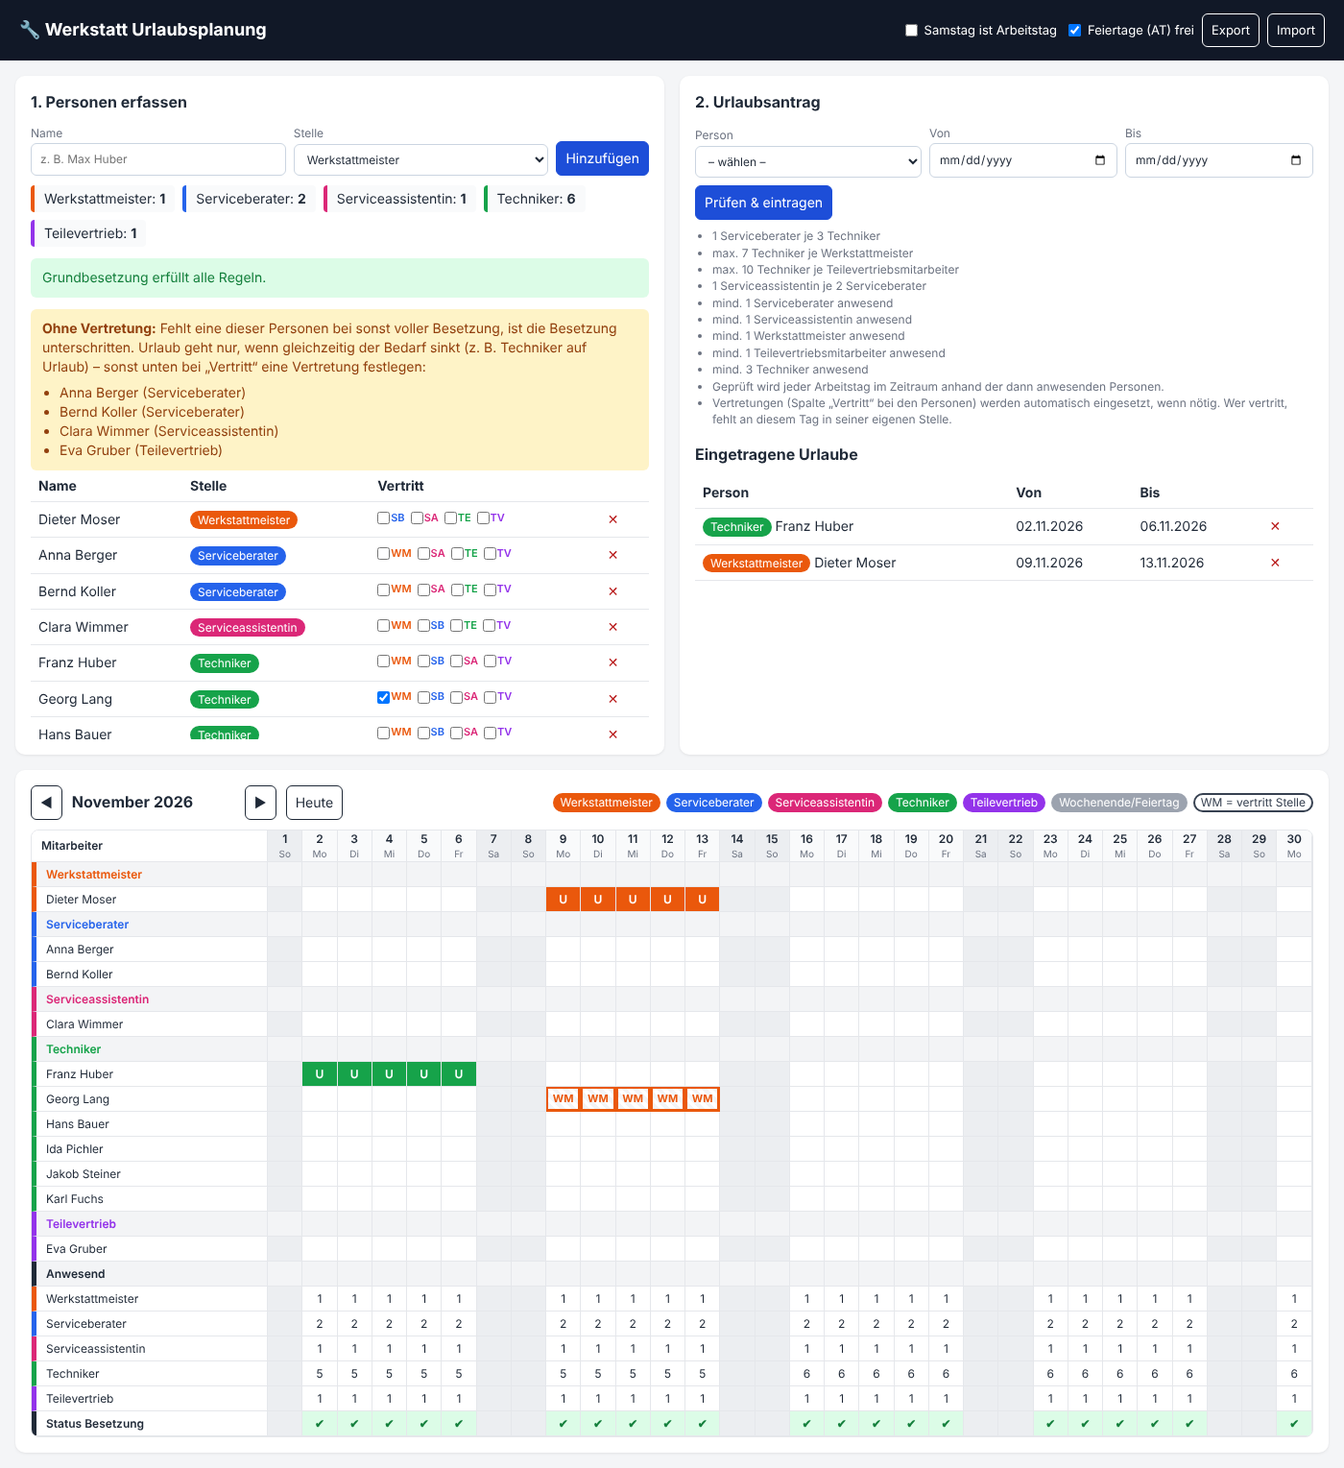
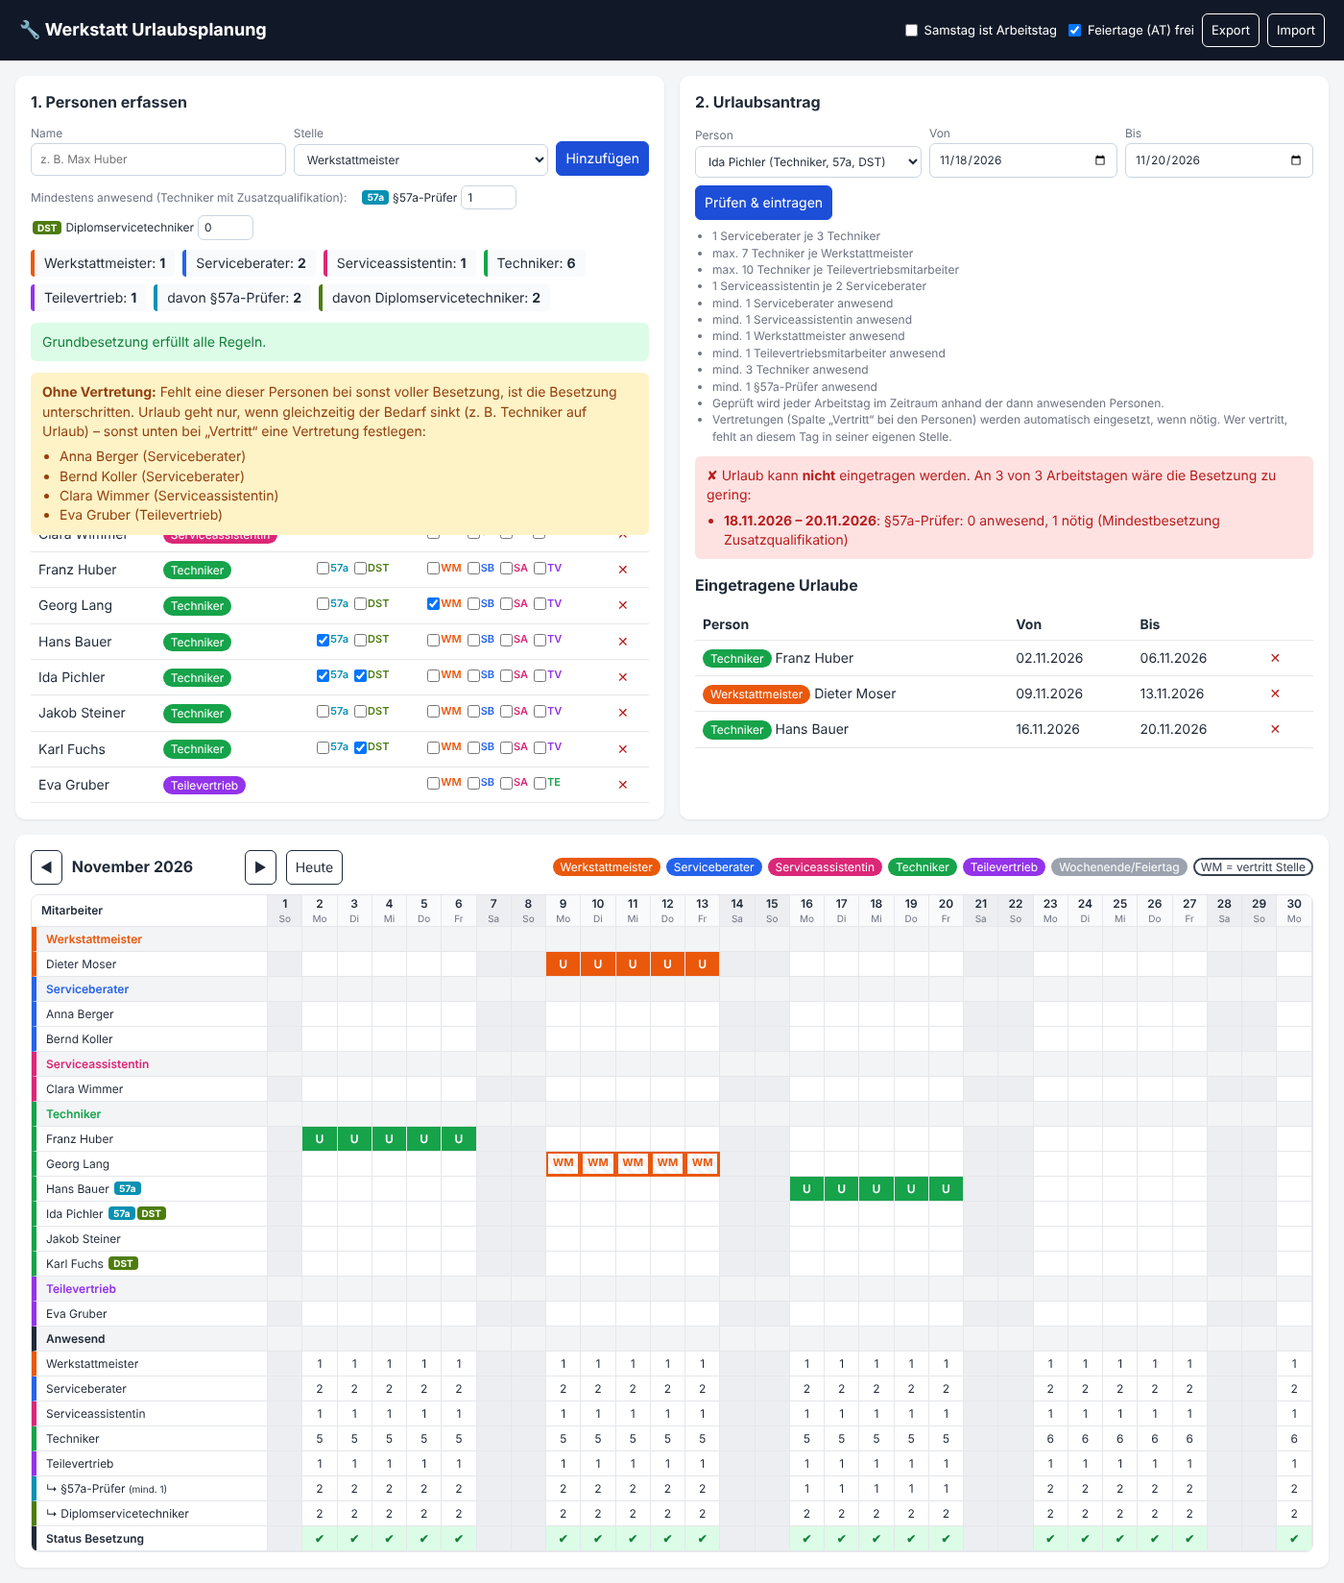
Zusatzqualifikationen für Techniker: §57a-Prüfer und Diplomservicetechniker
Techniker können als §57a-Prüfer und/oder Diplomservicetechniker markiert
werden. Die Mindestanzahl je Qualifikation und Arbeitstag ist einstellbar
(Standard: 1 §57a-Prüfer, 0 Diplomservicetechniker) und wird bei jedem
Urlaubsantrag geprüft. Kalender zeigt Kürzel und Anwesenheit je Qualifikation.

Claude-Session: https://claude.ai/code/session_01HcJAJ2dLJcx57wHRAHDGje

diff --git a/app.js b/app.js
@@ -13,6 +13,10 @@
   const uid = () => Date.now().toString(36) + Math.random().toString(36).slice(2, 7);
   const today = R.fmt(new Date(Date.UTC(new Date().getFullYear(), new Date().getMonth(), new Date().getDate())));
 
+  const normSettings = s => Object.assign({ saturday: false, holidays: true }, s, {
+    qualMin: Object.assign({}, R.DEFAULT_QUAL_MIN, s && s.qualMin),
+  });
+
   let state = load();
   let view = { year: Number(today.slice(0, 4)), month: Number(today.slice(5, 7)) - 1 };
 
@@ -20,16 +24,18 @@
     try {
       const s = JSON.parse(localStorage.getItem(STORAGE_KEY));
       if (s && Array.isArray(s.persons) && Array.isArray(s.vacations)) {
-        s.settings = Object.assign({ saturday: false, holidays: true }, s.settings);
+        s.settings = normSettings(s.settings);
         return s;
       }
     } catch (e) { /* Speicher nicht verfügbar oder leer */ }
-    return { persons: [], vacations: [], settings: { saturday: false, holidays: true } };
+    return { persons: [], vacations: [], settings: normSettings({}) };
   }
   function save() {
     try { localStorage.setItem(STORAGE_KEY, JSON.stringify(state)); } catch (e) { /* ignorieren */ }
   }
 
+  const qualBadge = q => `<span class="qual" style="background:${R.QUALS[q].color}" title="${R.QUALS[q].label}">${R.QUALS[q].short}</span>`;
+  const qualBadges = p => R.QUAL_ORDER.filter(q => R.hasQual(p, q)).map(qualBadge).join('');
   const chip = role => `<span class="chip" style="background:${R.ROLES[role].color}">${R.ROLES[role].label}</span>`;
   const personById = id => state.persons.find(p => p.id === id);
   const sortedPersons = () => state.persons.slice().sort((a, b) =>
@@ -39,21 +45,28 @@
   function renderPersons() {
     const counts = R.presentCounts('0000-00-00', state.persons, []);
     $('stats').innerHTML = R.ROLE_ORDER.map(r =>
-      `<div class="stat" style="border-color:${R.ROLES[r].color}">${R.ROLES[r].label}: <b>${counts[r]}</b></div>`).join('');
+      `<div class="stat" style="border-color:${R.ROLES[r].color}">${R.ROLES[r].label}: <b>${counts[r]}</b></div>`).join('') +
+      R.QUAL_ORDER.map(q =>
+        `<div class="stat" style="border-color:${R.QUALS[q].color}">davon ${R.QUALS[q].label}: <b>${state.persons.filter(p => R.hasQual(p, q)).length}</b></div>`).join('');
 
-    const v = R.staffing('', state.persons, []).violations;
+    $('qualMin').innerHTML = '<span>Mindestens anwesend (Techniker mit Zusatzqualifikation):</span>' + R.QUAL_ORDER.map(q =>
+      `<label>${qualBadge(q)} ${R.QUALS[q].label} <input type="number" min="0" max="20" step="1" data-qualmin="${q}" value="${state.settings.qualMin[q]}"></label>`).join('');
+
+    const v = R.staffing('', state.persons, [], state.settings.qualMin).violations;
     $('baseCheck').innerHTML = !state.persons.length ? '' : v.length
       ? `<div class="msg bad"><b>Grundbesetzung verletzt die Regeln schon ohne Urlaub:</b><ul>${v.map(x => `<li>${esc(x.message)}</li>`).join('')}</ul></div>`
       : '<div class="msg ok">Grundbesetzung erfüllt alle Regeln.</div>';
-    const noCover = state.persons.length && !v.length ? R.personsWithoutCover(sortedPersons()) : [];
+    const noCover = state.persons.length && !v.length ? R.personsWithoutCover(sortedPersons(), state.settings.qualMin) : [];
     if (noCover.length) {
-      $('baseCheck').innerHTML += `<div class="msg warn"><b>Ohne Vertretung:</b> Fehlt eine dieser Personen bei sonst voller Besetzung, ist die Besetzung unterschritten. Urlaub geht nur, wenn gleichzeitig der Bedarf sinkt (z. B. Techniker auf Urlaub) – sonst unten bei „Vertritt“ eine Vertretung festlegen:<ul>${noCover.map(p => `<li>${esc(p.name)} (${R.ROLES[p.role].label})</li>`).join('')}</ul></div>`;
+      $('baseCheck').innerHTML += `<div class="msg warn"><b>Ohne Vertretung:</b> Fehlt eine dieser Personen bei sonst voller Besetzung, ist die Besetzung unterschritten. Urlaub geht nur, wenn gleichzeitig der Bedarf sinkt (z. B. Techniker auf Urlaub) – sonst unten bei „Vertritt“ eine Vertretung festlegen:<ul>${noCover.map(p => `<li>${esc(p.name)} (${R.ROLES[p.role].label}${R.QUAL_ORDER.filter(q => R.hasQual(p, q)).map(q => ', ' + R.QUALS[q].label).join('')})</li>`).join('')}</ul></div>`;
     }
 
     const list = sortedPersons();
     $('tblPersons').innerHTML = list.length
-      ? '<tr><th>Name</th><th>Stelle</th><th title="Stellen, die diese Person bei Bedarf vertreten darf">Vertritt</th><th></th></tr>' + list.map(p =>
+      ? '<tr><th>Name</th><th>Stelle</th><th title="Zusatzqualifikationen (nur Techniker)">Zusatz</th><th title="Stellen, die diese Person bei Bedarf vertreten darf">Vertritt</th><th></th></tr>' + list.map(p =>
         `<tr><td>${esc(p.name)}</td><td>${chip(p.role)}</td>
+         <td class="deps">${p.role !== 'TECH' ? '' : R.QUAL_ORDER.map(q =>
+           `<label title="${R.QUALS[q].label}"><input type="checkbox" data-qual="${p.id}" value="${q}" ${(p.quals || []).includes(q) ? 'checked' : ''}><span style="color:${R.QUALS[q].color}">${R.QUALS[q].short}</span></label>`).join('')}</td>
          <td class="deps">${R.ROLE_ORDER.filter(r => r !== p.role).map(r =>
            `<label title="${esc(p.name)} darf ${R.ROLES[r].label} vertreten"><input type="checkbox" data-deputy="${p.id}" value="${r}" ${(p.deputyFor || []).includes(r) ? 'checked' : ''}><span style="color:${R.ROLES[r].color}">${R.ROLES[r].short}</span></label>`).join('')}</td>
          <td><button class="del" data-del-person="${p.id}" title="Person löschen">✕</button></td></tr>`).join('')
@@ -62,7 +75,7 @@
     const sel = $('vPerson');
     const prev = sel.value;
     sel.innerHTML = '<option value="">– wählen –</option>' + list.map(p =>
-      `<option value="${p.id}">${esc(p.name)} (${R.ROLES[p.role].label})</option>`).join('');
+      `<option value="${p.id}">${esc(p.name)} (${R.ROLES[p.role].label}${R.QUAL_ORDER.filter(q => R.hasQual(p, q)).map(q => ', ' + R.QUALS[q].short).join('')})</option>`).join('');
     if (personById(prev)) sel.value = prev;
   }
 
@@ -70,19 +83,36 @@
     e.preventDefault();
     const name = $('pName').value.trim();
     if (!name) return;
-    state.persons.push({ id: uid(), name, role: $('pRole').value, deputyFor: [] });
+    state.persons.push({ id: uid(), name, role: $('pRole').value, deputyFor: [], quals: [] });
     $('pName').value = '';
     $('pName').focus();
     save(); renderAll();
   });
 
   $('tblPersons').addEventListener('change', e => {
+    const qid = e.target.dataset.qual;
+    if (qid) {
+      const p = personById(qid);
+      const set = new Set(p.quals || []);
+      if (e.target.checked) set.add(e.target.value); else set.delete(e.target.value);
+      p.quals = R.QUAL_ORDER.filter(q => set.has(q));
+      save(); renderAll();
+      return;
+    }
     const id = e.target.dataset.deputy;
     if (!id) return;
     const p = personById(id);
     const set = new Set(p.deputyFor || []);
     if (e.target.checked) set.add(e.target.value); else set.delete(e.target.value);
     p.deputyFor = R.ROLE_ORDER.filter(r => set.has(r));
+    save(); renderAll();
+  });
+
+  $('qualMin').addEventListener('change', e => {
+    const q = e.target.dataset.qualmin;
+    if (!q) return;
+    const n = Math.max(0, Math.floor(Number(e.target.value) || 0));
+    state.settings.qualMin[q] = n;
     save(); renderAll();
   });
 
@@ -170,10 +200,10 @@
     const dayInfo = days.map(d => {
       const work = R.isWorkday(d, state.settings);
       const hol = R.holidayName(d);
-      const st = R.staffing(d, state.persons, state.vacations);
+      const st = R.staffing(d, state.persons, state.vacations, state.settings.qualMin);
       const deputy = {};
       for (const x of st.deputies) deputy[x.person.id] = x.role;
-      return { d, work, hol, counts: st.counts, deputy, viol: work ? st.violations : [] };
+      return { d, work, hol, counts: st.counts, quals: st.quals, deputy, viol: work ? st.violations : [] };
     });
 
     let html = '<thead><tr><th class="name">Mitarbeiter</th>';
@@ -194,7 +224,7 @@
         html += `<tr class="group"><td class="name" style="color:${R.ROLES[p.role].color}">${R.ROLES[p.role].label}</td>${dayInfo.map(i => `<td class="${i.work ? '' : 'off'}"></td>`).join('')}</tr>`;
       }
       const color = R.ROLES[p.role].color;
-      html += `<tr><td class="name" style="border-left-color:${color}">${esc(p.name)}</td>`;
+      html += `<tr><td class="name" style="border-left-color:${color}">${esc(p.name)} ${qualBadges(p)}</td>`;
       for (const i of dayInfo) {
         const absent = R.isAbsent(p.id, i.d, state.vacations);
         if (absent && i.work) html += `<td class="vac" style="background:${color}" title="${esc(p.name)}: Urlaub ${R.deDate(i.d)}">U</td>`;
@@ -216,8 +246,19 @@
         html += `<tr><td class="name" style="border-left-color:${R.ROLES[r].color}">${R.ROLES[r].label}</td>`;
         for (const i of dayInfo) {
           if (!i.work) { html += '<td class="off"></td>'; continue; }
-          const bad = i.viol.some(v => v.role === r);
+          const bad = i.viol.some(v => v.key === r);
           html += `<td class="${bad ? 'badc' : ''}">${i.counts[r]}</td>`;
+        }
+        html += '</tr>';
+      }
+      for (const q of R.QUAL_ORDER) {
+        if (!state.settings.qualMin[q] && !state.persons.some(p => R.hasQual(p, q))) continue;
+        const min = state.settings.qualMin[q];
+        html += `<tr><td class="name" style="border-left-color:${R.QUALS[q].color}">↳ ${R.QUALS[q].label}${min ? ` <small>(mind. ${min})</small>` : ''}</td>`;
+        for (const i of dayInfo) {
+          if (!i.work) { html += '<td class="off"></td>'; continue; }
+          const bad = i.viol.some(v => v.key === 'Q:' + q);
+          html += `<td class="${bad ? 'badc' : ''}">${i.quals[q]}</td>`;
         }
         html += '</tr>';
       }
@@ -268,7 +309,7 @@
       if (!Array.isArray(data.persons) || !Array.isArray(data.vacations)) throw new Error('Ungültiges Format');
       if (!confirm('Aktuelle Daten durch Import ersetzen?')) return;
       state = { persons: data.persons, vacations: data.vacations,
-        settings: Object.assign({ saturday: false, holidays: true }, data.settings) };
+        settings: normSettings(data.settings) };
       $('setSaturday').checked = state.settings.saturday;
       $('setHolidays').checked = state.settings.holidays;
       save(); renderAll();
@@ -281,15 +322,16 @@
 
   // ---------- Start ----------
   $('pRole').innerHTML = R.ROLE_ORDER.map(r => `<option value="${r}">${R.ROLES[r].label}</option>`).join('');
-  $('rulesList').innerHTML = R.RULES.map(r => `<li>${r.text}</li>`).join('') +
-    '<li>Geprüft wird jeder Arbeitstag im Zeitraum anhand der dann anwesenden Personen.</li>' +
-    '<li>Vertretungen (Spalte „Vertritt“ bei den Personen) werden automatisch eingesetzt, wenn nötig. ' +
-    'Wer vertritt, fehlt an diesem Tag in seiner eigenen Stelle.</li>';
   $('legend').innerHTML = R.ROLE_ORDER.map(chip).join('') +
     '<span class="chip" style="background:#9ca3af">Wochenende/Feiertag</span>' +
     '<span class="chip" style="background:#fff;color:#374151;box-shadow:inset 0 0 0 2px #374151">WM = vertritt Stelle</span>';
 
   function renderAll() {
+    $('rulesList').innerHTML = R.RULES.map(r => `<li>${r.text}</li>`).join('') +
+      R.QUAL_ORDER.filter(q => state.settings.qualMin[q] > 0).map(q => `<li>mind. ${state.settings.qualMin[q]} ${R.QUALS[q].label} anwesend</li>`).join('') +
+      '<li>Geprüft wird jeder Arbeitstag im Zeitraum anhand der dann anwesenden Personen.</li>' +
+      '<li>Vertretungen (Spalte „Vertritt“ bei den Personen) werden automatisch eingesetzt, wenn nötig. ' +
+      'Wer vertritt, fehlt an diesem Tag in seiner eigenen Stelle.</li>';
     renderPersons();
     renderVacations();
     renderCalendar();

diff --git a/rules.js b/rules.js
@@ -14,6 +14,14 @@
   };
   const ROLE_ORDER = ['MEISTER', 'SB', 'ASSIST', 'TECH', 'TEILE'];
 
+  // Zusatzqualifikationen der Techniker; Mindestanzahl je Arbeitstag ist einstellbar
+  const QUALS = {
+    P57A: { label: '§57a-Prüfer',            short: '57a', color: '#0891b2' },
+    DST:  { label: 'Diplomservicetechniker', short: 'DST', color: '#4d7c0f' },
+  };
+  const QUAL_ORDER = ['P57A', 'DST'];
+  const DEFAULT_QUAL_MIN = { P57A: 1, DST: 0 };
+
   // Verhältnisregeln: "need" Personen der Rolle pro "per" anwesende Personen der Basisrolle.
   const RULES = [
     { role: 'SB',      base: 'TECH', per: 3,  text: '1 Serviceberater je 3 Techniker' },
@@ -142,6 +150,7 @@
       const v = byRole[role];
       return {
         rule: v.rule,
+        key: role,
         role,
         required: v.required,
         present: counts[role],
@@ -151,6 +160,37 @@
     });
   }
   const totalDeficit = v => v.reduce((sum, x) => sum + x.deficit, 0);
+
+  const hasQual = (p, q) => p.role === 'TECH' && (p.quals || []).includes(q);
+
+  /*
+   * Mindestanzahl je Zusatzqualifikation. Gezählt werden alle anwesenden Techniker mit der
+   * Qualifikation – auch wenn sie an dem Tag eine andere Stelle vertreten (sie sind im Haus).
+   */
+  function qualViolations(present, qualMin) {
+    const out = [];
+    for (const q of QUAL_ORDER) {
+      const required = (qualMin && qualMin[q]) || 0;
+      const n = present.filter(p => hasQual(p, q)).length;
+      if (n < required) {
+        out.push({
+          key: 'Q:' + q,
+          role: 'TECH',
+          qual: q,
+          required,
+          present: n,
+          deficit: required - n,
+          message: `${QUALS[q].label}: ${n} anwesend, ${required} nötig (Mindestbesetzung Zusatzqualifikation)`,
+        });
+      }
+    }
+    return out;
+  }
+  function qualCounts(present) {
+    const out = {};
+    for (const q of QUAL_ORDER) out[q] = present.filter(p => hasQual(p, q)).length;
+    return out;
+  }
 
   // Alle Aufteilungen von n gleichartigen Personen auf k Optionen
   function compositions(n, k) {
@@ -166,9 +206,10 @@
    * Vertretung – in genau einer der Stellen, die sie vertreten darf (dann fehlt sie
    * in ihrer eigenen). Gewählt wird die Aufteilung mit dem geringsten Gesamtdefizit,
    * bei Gleichstand die mit den wenigsten Vertretungseinsätzen.
-   * Rückgabe: { counts, violations, deputies: [{ person, role }] }
+   * Zusätzlich wird die Mindestanzahl je Zusatzqualifikation (qualMin) geprüft.
+   * Rückgabe: { counts, quals, violations, deputies: [{ person, role }] }
    */
-  function staffing(day, persons, vacations) {
+  function staffing(day, persons, vacations, qualMin) {
     const present = persons.filter(p => !isAbsent(p.id, day, vacations));
     const base = presentCounts(day, present, []);
 
@@ -216,7 +257,12 @@
         for (let k = 0; k < n; k++) deputies.push({ person: g.people[idx++], role: g.targets[j] });
       });
     });
-    return { counts: best.counts, violations: best.violations, deputies };
+    return {
+      counts: best.counts,
+      quals: qualCounts(present),
+      violations: best.violations.concat(qualViolations(present, qualMin)),
+      deputies,
+    };
   }
 
   /*
@@ -253,12 +299,12 @@
     const conflicts = [];
     const deputies = [];
     for (const day of days) {
-      const before = staffing(day, persons, vacations);
-      const after = staffing(day, persons, planned);
+      const before = staffing(day, persons, vacations, settings.qualMin);
+      const after = staffing(day, persons, planned, settings.qualMin);
       // Nur Unterbesetzung zählt, die durch diesen Antrag entsteht oder sich verschärft.
       if (totalDeficit(after.violations) > totalDeficit(before.violations)) {
         const worse = after.violations.filter(a => {
-          const b = before.violations.find(x => x.role === a.role);
+          const b = before.violations.find(x => x.key === a.key);
           return !b || a.deficit > b.deficit;
         });
         conflicts.push({ day, messages: (worse.length ? worse : after.violations).map(c => c.message) });
@@ -274,11 +320,11 @@
    * mit allen Vertretungen eine Regel verletzt. Urlaub geht dann nur, wenn der Bedarf
    * durch andere Abwesenheiten sinkt (oder gar nicht).
    */
-  function personsWithoutCover(persons) {
-    const full = totalDeficit(staffing('', persons, []).violations);
+  function personsWithoutCover(persons, qualMin) {
+    const full = totalDeficit(staffing('', persons, [], qualMin).violations);
     return persons.filter(p => {
       const without = persons.filter(x => x !== p);
-      return totalDeficit(staffing('', without, []).violations) > full;
+      return totalDeficit(staffing('', without, [], qualMin).violations) > full;
     });
   }
 
@@ -295,7 +341,7 @@
   }
 
   const api = {
-    ROLES, ROLE_ORDER, RULES,
+    ROLES, ROLE_ORDER, RULES, QUALS, QUAL_ORDER, DEFAULT_QUAL_MIN, hasQual,
     parse, fmt, addDays, eachDay, weekday, deDate,
     easter, holidays, holidayName, isWorkday,
     isAbsent, presentCounts, violations, staffing, checkRequest, groupConflicts, personsWithoutCover,

diff --git a/test/rules.test.js b/test/rules.test.js
@@ -140,3 +140,35 @@ test('Mehrere Regeln für dieselbe Stelle ergeben eine Meldung', () => {
   assert.strictEqual(v.length, 1);
   assert.match(v[0].message, /Werkstattmeister: 0 anwesend, 1 nötig \(.*max\. 7.* bzw\. Mindestbesetzung/);
 });
+
+const qset = Object.assign({}, settings, { qualMin: { P57A: 1, DST: 0 } });
+
+test('Zusatzqualifikation: letzter §57a-Prüfer darf nicht fehlen', () => {
+  const persons = team({ sb: 2, tech: 6, meister: 1, teile: 1, assist: 1 });
+  persons.find(p => p.id === 'TECH0').quals = ['P57A'];
+  const res = R.checkRequest({ personId: 'TECH0', from: '2026-11-02', to: '2026-11-02' }, persons, [], qset);
+  assert.strictEqual(res.ok, false);
+  assert.match(res.conflicts[0].messages.join(), /§57a-Prüfer: 0 anwesend, 1 nötig/);
+
+  // Mit zweitem Prüfer klappt es
+  persons.find(p => p.id === 'TECH1').quals = ['P57A', 'DST'];
+  assert.strictEqual(R.checkRequest({ personId: 'TECH0', from: '2026-11-02', to: '2026-11-02' }, persons, [], qset).ok, true);
+});
+
+test('Zusatzqualifikation: Mindestanzahl 0 prüft nichts, Qualifikation nur bei Technikern', () => {
+  const persons = team({ sb: 2, tech: 6, meister: 1, teile: 1, assist: 1 });
+  persons.find(p => p.id === 'TECH0').quals = ['DST'];
+  persons.find(p => p.id === 'MEISTER0').quals = ['P57A']; // ignoriert: kein Techniker
+  // DST-Mindestanzahl 0 -> erlaubt; fehlender §57a-Prüfer besteht schon vorher und wird nicht verschärft
+  assert.strictEqual(R.checkRequest({ personId: 'TECH0', from: '2026-11-02', to: '2026-11-02' }, persons, [], qset).ok, true);
+  const st = R.staffing('2026-11-02', persons, [], qset.qualMin);
+  assert.deepStrictEqual(st.quals, { P57A: 0, DST: 1 });
+});
+
+test('Zusatzqualifikation: Prüfer, der den Meister vertritt, zählt weiter als Prüfer', () => {
+  const persons = team({ sb: 2, tech: 5, meister: 1, teile: 1, assist: 1 });
+  const t = persons.find(p => p.id === 'TECH0');
+  t.quals = ['P57A']; t.deputyFor = ['MEISTER'];
+  const res = R.checkRequest({ personId: 'MEISTER0', from: '2026-11-02', to: '2026-11-02' }, persons, [], qset);
+  assert.strictEqual(res.ok, true);
+});

diff --git a/index.html b/index.html
@@ -55,6 +55,10 @@
     .cal td.vac { color: #fff; font-weight: 600; }
     .cal td.dep { font-weight: 700; font-size: 11px; background: repeating-linear-gradient(45deg, #fff, #fff 4px, #f3f4f6 4px, #f3f4f6 8px); box-shadow: inset 0 0 0 2px currentColor; }
     .deps { white-space: nowrap; }
+    .qual { display: inline-block; padding: 0 5px; border-radius: 4px; color: #fff; font-size: 10px; font-weight: 700; vertical-align: 1px; margin-left: 2px; }
+    .qualmin { display: flex; flex-wrap: wrap; gap: 6px 14px; align-items: center; margin-top: 10px; font-size: 12px; color: var(--muted); }
+    .qualmin label { display: flex; align-items: center; gap: 4px; color: var(--text); }
+    .qualmin input { width: 58px; padding: 3px 6px; }
     .deps label { display: inline-flex; align-items: center; gap: 1px; margin-right: 6px; font-size: 11px; font-weight: 600; cursor: pointer; }
     .deps input { margin: 0; padding: 0; }
     .cal tr.group td { background: #f3f4f6; font-weight: 600; text-align: left; padding: 0 10px; }
@@ -86,6 +90,7 @@
       <label>Stelle <select id="pRole"></select></label>
       <button type="submit">Hinzufügen</button>
     </form>
+    <div class="qualmin" id="qualMin"></div>
     <div class="stats" id="stats"></div>
     <div id="baseCheck"></div>
     <div class="scroll"><table id="tblPersons"></table></div>

diff --git a/README.md b/README.md
@@ -22,6 +22,15 @@ einen anderen Rechner übertragen.
 Zusätzlich gilt immer die **Mindestbesetzung**: mind. 1 Serviceberater, 1 Serviceassistentin,
 1 Werkstattmeister, 1 Teilevertriebsmitarbeiter und 3 Techniker.
 
+## Zusatzqualifikationen der Techniker
+
+Techniker können in der Spalte **Zusatz** als **§57a-Prüfer** und/oder **Diplomservicetechniker**
+markiert werden. Wie viele davon an jedem Arbeitstag mindestens anwesend sein müssen, wird oben im
+Personenbereich eingestellt (Standard: 1 §57a-Prüfer, 0 Diplomservicetechniker = keine Prüfung).
+Gezählt werden alle anwesenden Techniker mit der Qualifikation – auch wenn sie an dem Tag eine andere
+Stelle vertreten. Im Kalender stehen die Qualifikationen als Kürzel beim Namen und als eigene Zeilen
+unter „Anwesend“.
+
 ## Vertretungen
 
 In der Personenliste legt die Spalte **Vertritt** fest, welche Stellen eine Person bei Bedarf
